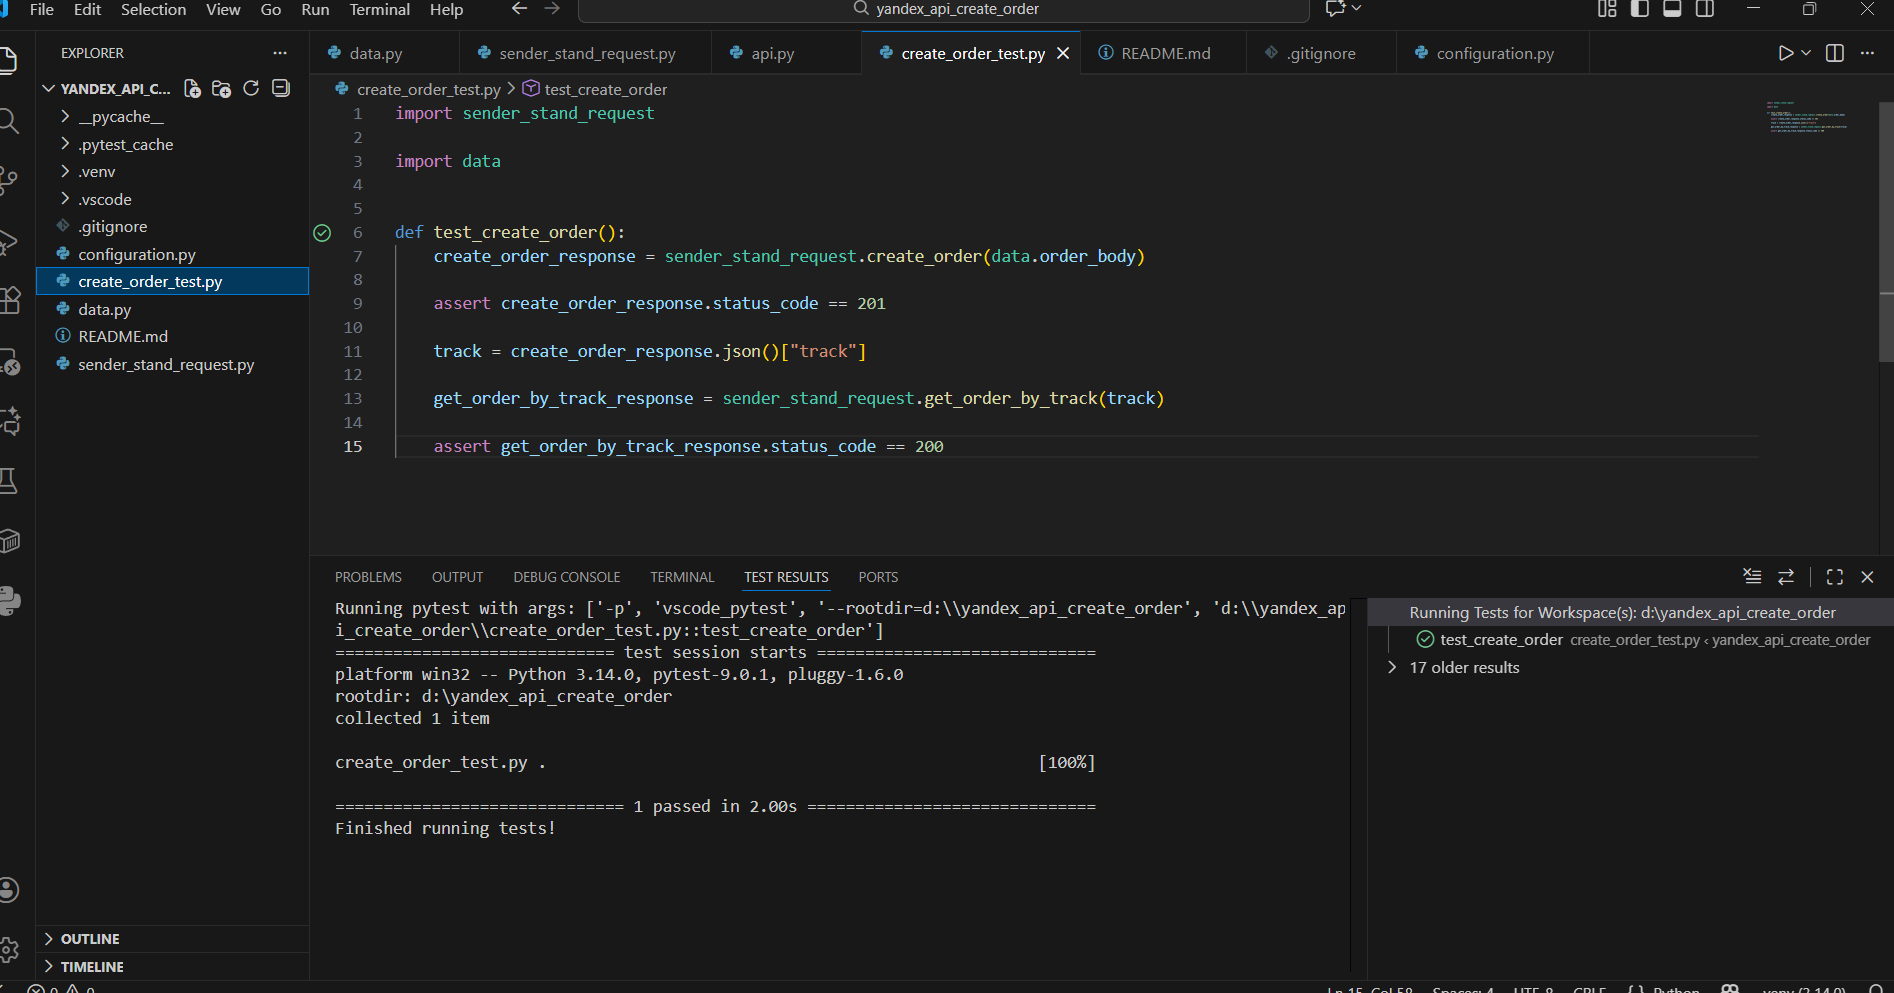
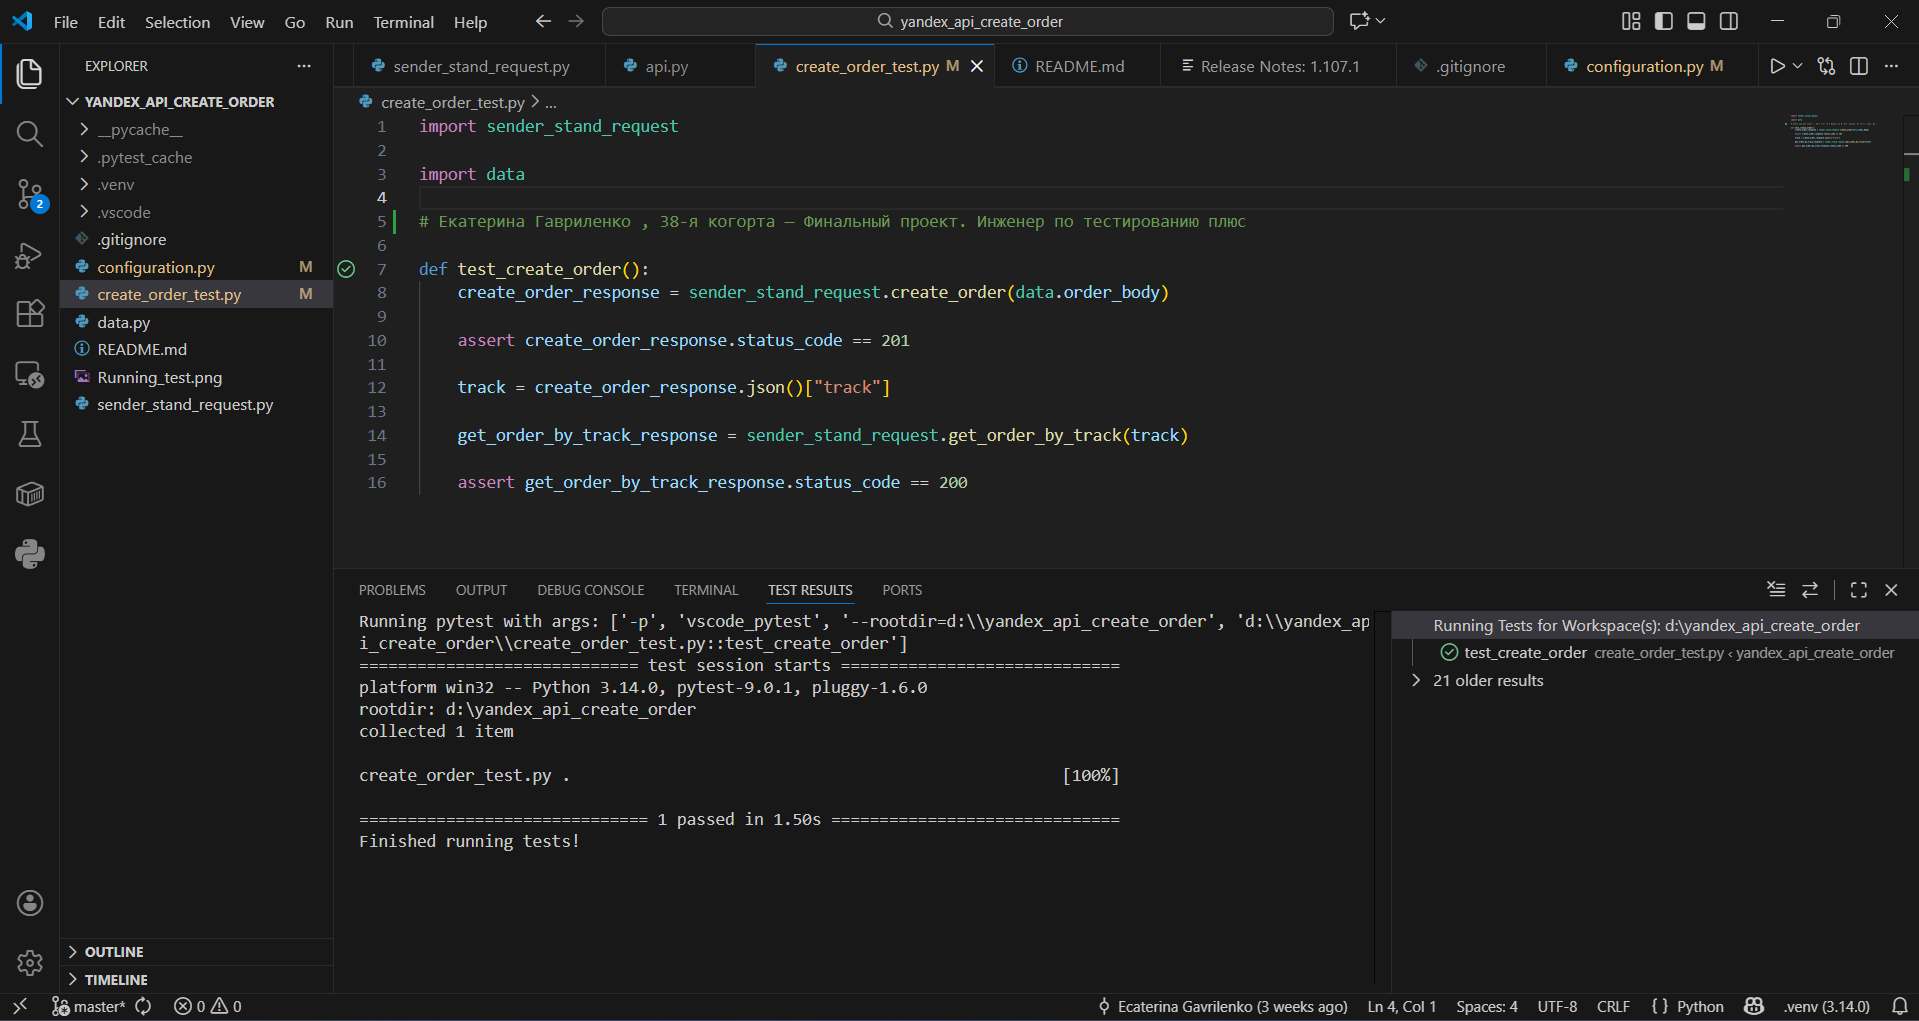
add comments

diff --git a/create_order_test.py b/create_order_test.py
@@ -2,6 +2,7 @@ import sender_stand_request
 
 import data 
 
+# Екатерина Гавриленко , 38-я когорта — Финальный проект. Инженер по тестированию плюс
 
 def test_create_order():
     create_order_response = sender_stand_request.create_order(data.order_body)

diff --git a/configuration.py b/configuration.py
@@ -1,4 +1,4 @@
-URL_SERVICE ="https://e6f3649c-7936-4a76-867d-dd943d1e83b6.serverhub.praktikum-services.ru"
+URL_SERVICE ="https://76492ba9-5a21-4b51-86f3-7e8224decd55.serverhub.praktikum-services.ru"
 DOC_PATH = "/docs/"
 CREATE_ORDER_PATH = "/api/v1/orders"
 GET_ORDER_BY_TRACK="/api/v1/orders/track"
